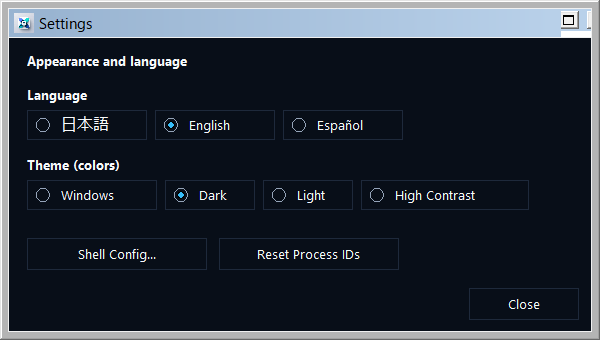
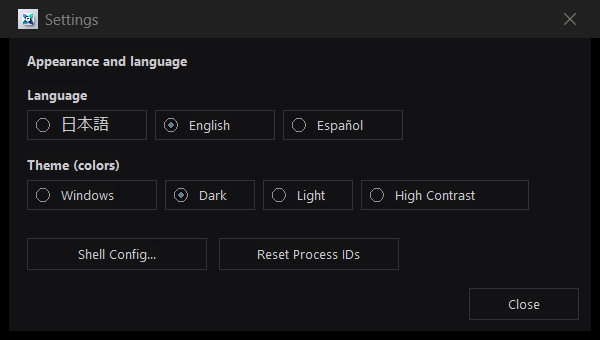
Refine dark theme colors and process list header styling
- Desaturate dark-theme accents, rows, badges, and selections
- Use light gray text and owner-drawn list headers with explicit BG/FG
- Darken scrollbars/buttons and add Windows personalization theme option

diff --git a/src/gui_dashboard.cpp b/src/gui_dashboard.cpp
@@ -70,6 +70,7 @@ struct ThemeColors {
     COLORREF terminalBg;
     COLORREF emptyBg;
     COLORREF listText;
+    COLORREF rowSelected;
     COLORREF rowRunning;
     COLORREF rowIdle;
     COLORREF rowCompleted;
@@ -130,23 +131,23 @@ static ThemeColors ThemeFor(UiTheme theme) {
             return {
                 RGB(241, 245, 249), RGB(255, 255, 255), RGB(203, 213, 225),
                 RGB(15, 23, 42), RGB(71, 85, 105), RGB(2, 132, 199),
-                RGB(15, 23, 42), RGB(226, 232, 240), RGB(15, 23, 42),
+                RGB(15, 23, 42), RGB(226, 232, 240), RGB(15, 23, 42), RGB(219, 234, 254),
                 RGB(220, 252, 231), RGB(254, 243, 199), RGB(219, 234, 254), RGB(254, 226, 226)
             };
         case UiTheme::HighContrast:
             return {
                 RGB(0, 0, 0), RGB(20, 20, 20), RGB(255, 255, 255),
                 RGB(255, 255, 255), RGB(220, 220, 220), RGB(255, 255, 0),
-                RGB(0, 0, 0), RGB(0, 0, 0), RGB(255, 255, 255),
+                RGB(0, 0, 0), RGB(0, 0, 0), RGB(255, 255, 255), RGB(0, 80, 160),
                 RGB(0, 40, 0), RGB(50, 40, 0), RGB(0, 20, 50), RGB(50, 0, 0)
             };
         case UiTheme::Dark:
         default:
             return {
-                RGB(2, 6, 14), RGB(8, 14, 24), RGB(30, 41, 59),
-                RGB(248, 250, 252), RGB(148, 163, 184), RGB(56, 189, 248),
-                RGB(0, 0, 0), RGB(4, 8, 14), RGB(255, 255, 255),
-                RGB(6, 40, 26), RGB(50, 38, 8), RGB(10, 28, 55), RGB(55, 14, 18)
+                RGB(10, 10, 12), RGB(18, 18, 20), RGB(50, 50, 54),
+                RGB(202, 202, 208), RGB(145, 145, 150), RGB(95, 125, 145),
+                RGB(0, 0, 0), RGB(12, 12, 14), RGB(202, 202, 208), RGB(30, 42, 52),
+                RGB(18, 30, 24), RGB(34, 30, 20), RGB(20, 28, 36), RGB(36, 22, 24)
             };
     }
 }
@@ -187,7 +188,7 @@ static void ApplyDarkModeApi(HWND hwnd, bool dark) {
 static void ApplyNativeControlTheme(HWND hwnd, bool dark) {
     if (!hwnd) return;
     ApplyDarkModeApi(hwnd, dark);
-    SetWindowTheme(hwnd, dark ? L"DarkMode_Explorer" : L"", dark ? L"DarkMode_Explorer" : L"");
+    SetWindowTheme(hwnd, dark ? L"DarkMode_Explorer" : L"", dark ? nullptr : L"");
 }
 
 static void ApplyNativeThemeToWindow(HWND hwnd) {
@@ -205,6 +206,63 @@ static void ApplyNativeThemeToWindow(HWND hwnd) {
             }
         }
     }
+}
+
+static void DrawHeaderItem(DRAWITEMSTRUCT* dis) {
+    if (!dis || !dis->hwndItem) return;
+    wchar_t text[256] = {};
+    HDITEMW hdiText = {};
+    hdiText.mask = HDI_TEXT;
+    hdiText.pszText = text;
+    hdiText.cchTextMax = 256;
+    SendMessageW(dis->hwndItem, HDM_GETITEMW, dis->itemID, reinterpret_cast<LPARAM>(&hdiText));
+    HBRUSH bgBrush = CreateSolidBrush(g_theme.windowBg);
+    FillRect(dis->hDC, &dis->rcItem, bgBrush);
+    DeleteObject(bgBrush);
+
+    SetBkMode(dis->hDC, TRANSPARENT);
+    SetTextColor(dis->hDC, g_theme.text);
+    HFONT font = reinterpret_cast<HFONT>(SendMessageW(GetParent(dis->hwndItem), WM_GETFONT, 0, 0));
+    HGDIOBJ oldFont = SelectObject(dis->hDC, font ? font : GetStockObject(DEFAULT_GUI_FONT));
+    RECT rc = dis->rcItem;
+    InflateRect(&rc, -8, -1);
+    DrawTextW(dis->hDC, text, -1, &rc, DT_LEFT | DT_VCENTER | DT_SINGLELINE | DT_END_ELLIPSIS);
+    SelectObject(dis->hDC, oldFont);
+
+    HPEN borderPen = CreatePen(PS_SOLID, 1, g_theme.border);
+    HGDIOBJ oldPen = SelectObject(dis->hDC, borderPen);
+    MoveToEx(dis->hDC, dis->rcItem.right - 1, dis->rcItem.top, nullptr);
+    LineTo(dis->hDC, dis->rcItem.right - 1, dis->rcItem.bottom);
+    MoveToEx(dis->hDC, dis->rcItem.left, dis->rcItem.bottom - 1, nullptr);
+    LineTo(dis->hDC, dis->rcItem.right, dis->rcItem.bottom - 1);
+    SelectObject(dis->hDC, oldPen);
+    DeleteObject(borderPen);
+}
+
+static LRESULT CALLBACK HeaderSubclassProc(HWND hwnd, UINT msg, WPARAM wParam, LPARAM lParam,
+                                           UINT_PTR, DWORD_PTR) {
+    if (msg == WM_ERASEBKGND) {
+        HDC hdc = reinterpret_cast<HDC>(wParam);
+        RECT rc = {};
+        GetClientRect(hwnd, &rc);
+        HBRUSH brush = CreateSolidBrush(g_theme.windowBg);
+        FillRect(hdc, &rc, brush);
+        DeleteObject(brush);
+        return 1;
+    }
+    return DefSubclassProc(hwnd, msg, wParam, lParam);
+}
+
+static LRESULT CALLBACK ListViewSubclassProc(HWND hwnd, UINT msg, WPARAM wParam, LPARAM lParam,
+                                             UINT_PTR, DWORD_PTR) {
+    if (msg == WM_DRAWITEM) {
+        auto* dis = reinterpret_cast<DRAWITEMSTRUCT*>(lParam);
+        if (dis && dis->CtlType == ODT_HEADER) {
+            DrawHeaderItem(dis);
+            return TRUE;
+        }
+    }
+    return DefSubclassProc(hwnd, msg, wParam, lParam);
 }
 
 static LRESULT CALLBACK TabSubclassProc(HWND hwnd, UINT msg, WPARAM wParam, LPARAM lParam,
@@ -399,6 +457,34 @@ static std::wstring StateLabelWide(ProcState state, bool idleWarning) {
 }
 
 static COLORREF GetStateBadgeColor(const ProcessSnapshot& s) {
+    if (g_uiTheme == UiTheme::HighContrast) {
+        switch (s.state) {
+            case ProcState::Running:
+                return (s.idleMs >= 10000) ? RGB(255, 255, 0) : RGB(0, 255, 0);
+            case ProcState::Completed:
+                return RGB(0, 200, 255);
+            case ProcState::Failed:
+            case ProcState::TimedOut:
+            case ProcState::IdleTimedOut:
+            case ProcState::Killed:
+                return RGB(255, 0, 0);
+        }
+        return RGB(255, 255, 255);
+    }
+    if (IsDarkThemeActive()) {
+        switch (s.state) {
+            case ProcState::Running:
+                return (s.idleMs >= 10000) ? RGB(118, 98, 64) : RGB(68, 100, 82);
+            case ProcState::Completed:
+                return RGB(68, 96, 124);
+            case ProcState::Failed:
+            case ProcState::TimedOut:
+            case ProcState::IdleTimedOut:
+            case ProcState::Killed:
+                return RGB(122, 74, 74);
+        }
+        return RGB(98, 98, 104);
+    }
     switch (s.state) {
         case ProcState::Running:
             return (s.idleMs >= 10000) ? RGB(217, 119, 6) : RGB(22, 163, 74);
@@ -426,6 +512,23 @@ static COLORREF GetStateRowBgColor(const ProcessSnapshot& s) {
             return g_theme.rowFailed;
     }
     return g_theme.panel;
+}
+
+static COLORREF KpiAccent(int index) {
+    static const COLORREF darkAccents[6] = {
+        RGB(125, 128, 134), RGB(78, 112, 92), RGB(120, 104, 74),
+        RGB(78, 104, 128), RGB(124, 84, 84), RGB(104, 94, 118)
+    };
+    static const COLORREF lightAccents[6] = {
+        RGB(100, 116, 139), RGB(22, 163, 74), RGB(217, 119, 6),
+        RGB(37, 99, 235), RGB(220, 38, 38), RGB(168, 85, 247)
+    };
+    static const COLORREF hcAccents[6] = {
+        RGB(255, 255, 255), RGB(0, 255, 0), RGB(255, 255, 0),
+        RGB(0, 200, 255), RGB(255, 0, 0), RGB(255, 0, 255)
+    };
+    if (g_uiTheme == UiTheme::HighContrast) return hcAccents[index];
+    return IsDarkThemeActive() ? darkAccents[index] : lightAccents[index];
 }
 
 static void DrawKpiCard(HDC hdc, const RECT& rc, const wchar_t* title, const std::wstring& value,
@@ -679,23 +782,23 @@ static void DrawDashboardCanvas(DashboardState* st, HDC hdcWindow) {
 
         if (i == 0) {
             DrawKpiCard(hdc, rcCard, Tr(L"総ターミナル数", L"TOTAL TERMINALS", L"TERMINALES TOTALES"), std::to_wstring(totalCount),
-                        RGB(148, 163, 184), st->hFontUi, st->hFontKpiVal);
+                        KpiAccent(0), st->hFontUi, st->hFontKpiVal);
         } else if (i == 1) {
             DrawKpiCard(hdc, rcCard, Tr(L"稼働中", L"ACTIVE RUNNING", L"EN EJECUCIÓN"), std::to_wstring(activeRunning),
-                        RGB(34, 197, 94), st->hFontUi, st->hFontKpiVal);
+                        KpiAccent(1), st->hFontUi, st->hFontKpiVal);
         } else if (i == 2) {
             DrawKpiCard(hdc, rcCard, Tr(L"待機 / アイドル", L"WAITING / IDLE", L"ESPERANDO / INACTIVO"), std::to_wstring(idleWaiting),
-                        RGB(245, 158, 11), st->hFontUi, st->hFontKpiVal);
+                        KpiAccent(2), st->hFontUi, st->hFontKpiVal);
         } else if (i == 3) {
             DrawKpiCard(hdc, rcCard, Tr(L"完了 (OK)", L"COMPLETED (OK)", L"COMPLETADO (OK)"), std::to_wstring(completedOk),
-                        RGB(59, 130, 246), st->hFontUi, st->hFontKpiVal);
+                        KpiAccent(3), st->hFontUi, st->hFontKpiVal);
         } else if (i == 4) {
             DrawKpiCard(hdc, rcCard, Tr(L"失敗 / 強制終了", L"FAILED / KILLED", L"FALLIDO / TERMINADO"), std::to_wstring(failedOrKilled),
-                        RGB(239, 68, 68), st->hFontUi, st->hFontKpiVal);
+                        KpiAccent(4), st->hFontUi, st->hFontKpiVal);
         } else if (i == 5) {
             std::wstring memStr = Utf8ToWide(FormatBytes(totalMemBytes));
             DrawKpiCard(hdc, rcCard, Tr(L"合計ジョブメモリ", L"TOTAL JOB MEMORY", L"MEMORIA TOTAL"), memStr,
-                        RGB(168, 85, 247), st->hFontUi, st->hFontKpiVal);
+                        KpiAccent(5), st->hFontUi, st->hFontKpiVal);
         }
     }
     UpdateKpiTooltips(st, totalTreeProcs);
@@ -2279,6 +2382,20 @@ static LRESULT CALLBACK DashboardWndProc(HWND hwnd, UINT msg, WPARAM wParam, LPA
             }
             UpdateListHeaderSortIndicator(st);
 
+            HWND hHeader = ListView_GetHeader(st->hwndList);
+            if (hHeader) {
+                for (int i = 0; i < 12; ++i) {
+                    HDITEMW hdi = {};
+                    hdi.mask = HDI_FORMAT;
+                    if (Header_GetItem(hHeader, i, &hdi)) {
+                        hdi.fmt |= HDF_OWNERDRAW;
+                        Header_SetItem(hHeader, i, &hdi);
+                    }
+                }
+                SetWindowSubclass(hHeader, HeaderSubclassProc, 1, 0);
+            }
+            SetWindowSubclass(st->hwndList, ListViewSubclassProc, 1, 0);
+
             st->hwndTab = CreateWindowExW(0, WC_TABCONTROLW, L"",
                 WS_CHILD | WS_VISIBLE | WS_CLIPSIBLINGS | TCS_TABS | TCS_SINGLELINE | TCS_OWNERDRAWFIXED,
                 0, 0, 600, 26, hwnd, (HMENU)IDC_TAB_TERMINALS, nullptr, nullptr);
@@ -2496,6 +2613,10 @@ static LRESULT CALLBACK DashboardWndProc(HWND hwnd, UINT msg, WPARAM wParam, LPA
         case WM_DRAWITEM: {
             auto* dis = reinterpret_cast<DRAWITEMSTRUCT*>(lParam);
             if (!dis) break;
+            if (dis->CtlType == ODT_HEADER) {
+                DrawHeaderItem(dis);
+                return TRUE;
+            }
             if (dis->CtlType == ODT_TAB) {
                 wchar_t text[256] = {};
                 TCITEMW tie = {};
@@ -2557,11 +2678,6 @@ static LRESULT CALLBACK DashboardWndProc(HWND hwnd, UINT msg, WPARAM wParam, LPA
             InflateRect(&rc, -4, 0);
             DrawTextW(dis->hDC, text, -1, &rc, DT_CENTER | DT_VCENTER | DT_SINGLELINE | DT_END_ELLIPSIS);
             SelectObject(dis->hDC, oldFont);
-            if (dis->itemState & ODS_FOCUS) {
-                RECT rcFocus = dis->rcItem;
-                InflateRect(&rcFocus, -3, -3);
-                DrawFocusRect(dis->hDC, &rcFocus);
-            }
             return TRUE;
         }
 
@@ -2709,7 +2825,8 @@ static LRESULT CALLBACK DashboardWndProc(HWND hwnd, UINT msg, WPARAM wParam, LPA
                         int itemIdx = static_cast<int>(lvcd->nmcd.dwItemSpec);
                         if (itemIdx >= 0 && itemIdx < static_cast<int>(st->cachedSnapshots.size())) {
                             const auto& snap = st->cachedSnapshots[itemIdx];
-                            lvcd->clrTextBk = GetStateRowBgColor(snap);
+                            bool selected = (lvcd->nmcd.uItemState & CDIS_SELECTED) != 0;
+                            lvcd->clrTextBk = selected ? g_theme.rowSelected : GetStateRowBgColor(snap);
                             lvcd->clrText = g_theme.listText;
                         }
                         return CDRF_NEWFONT;
